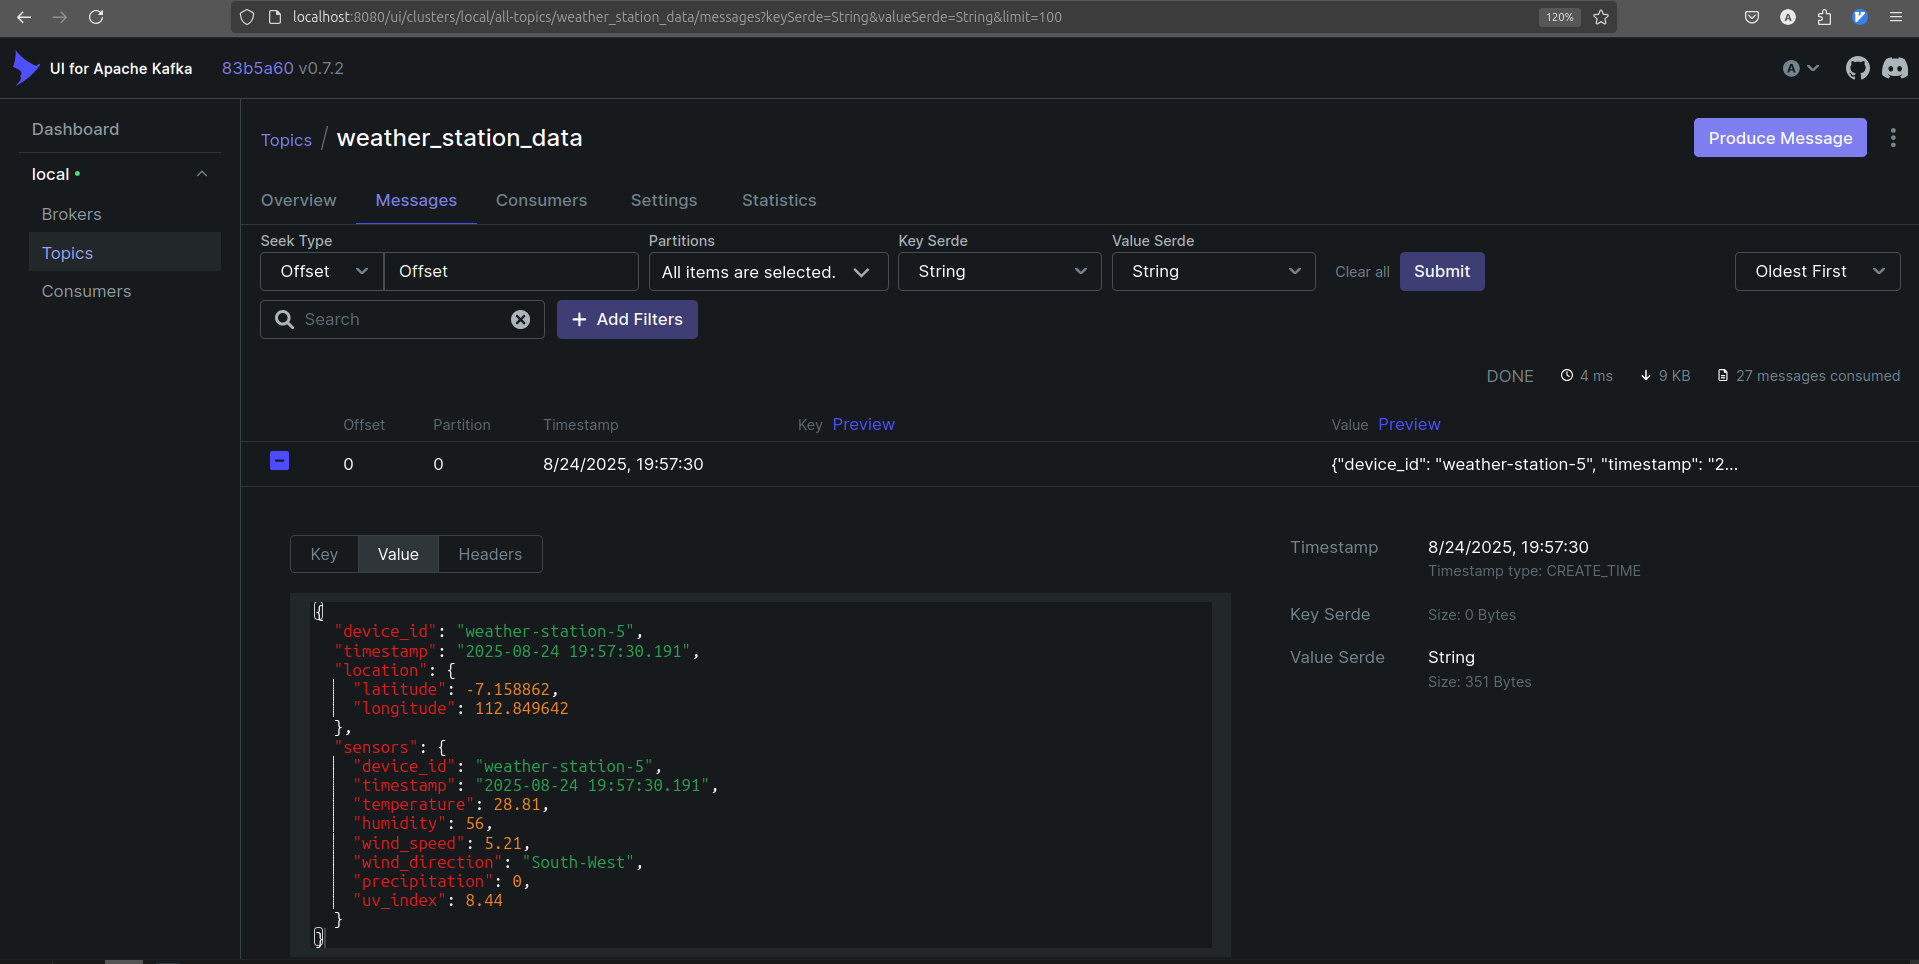
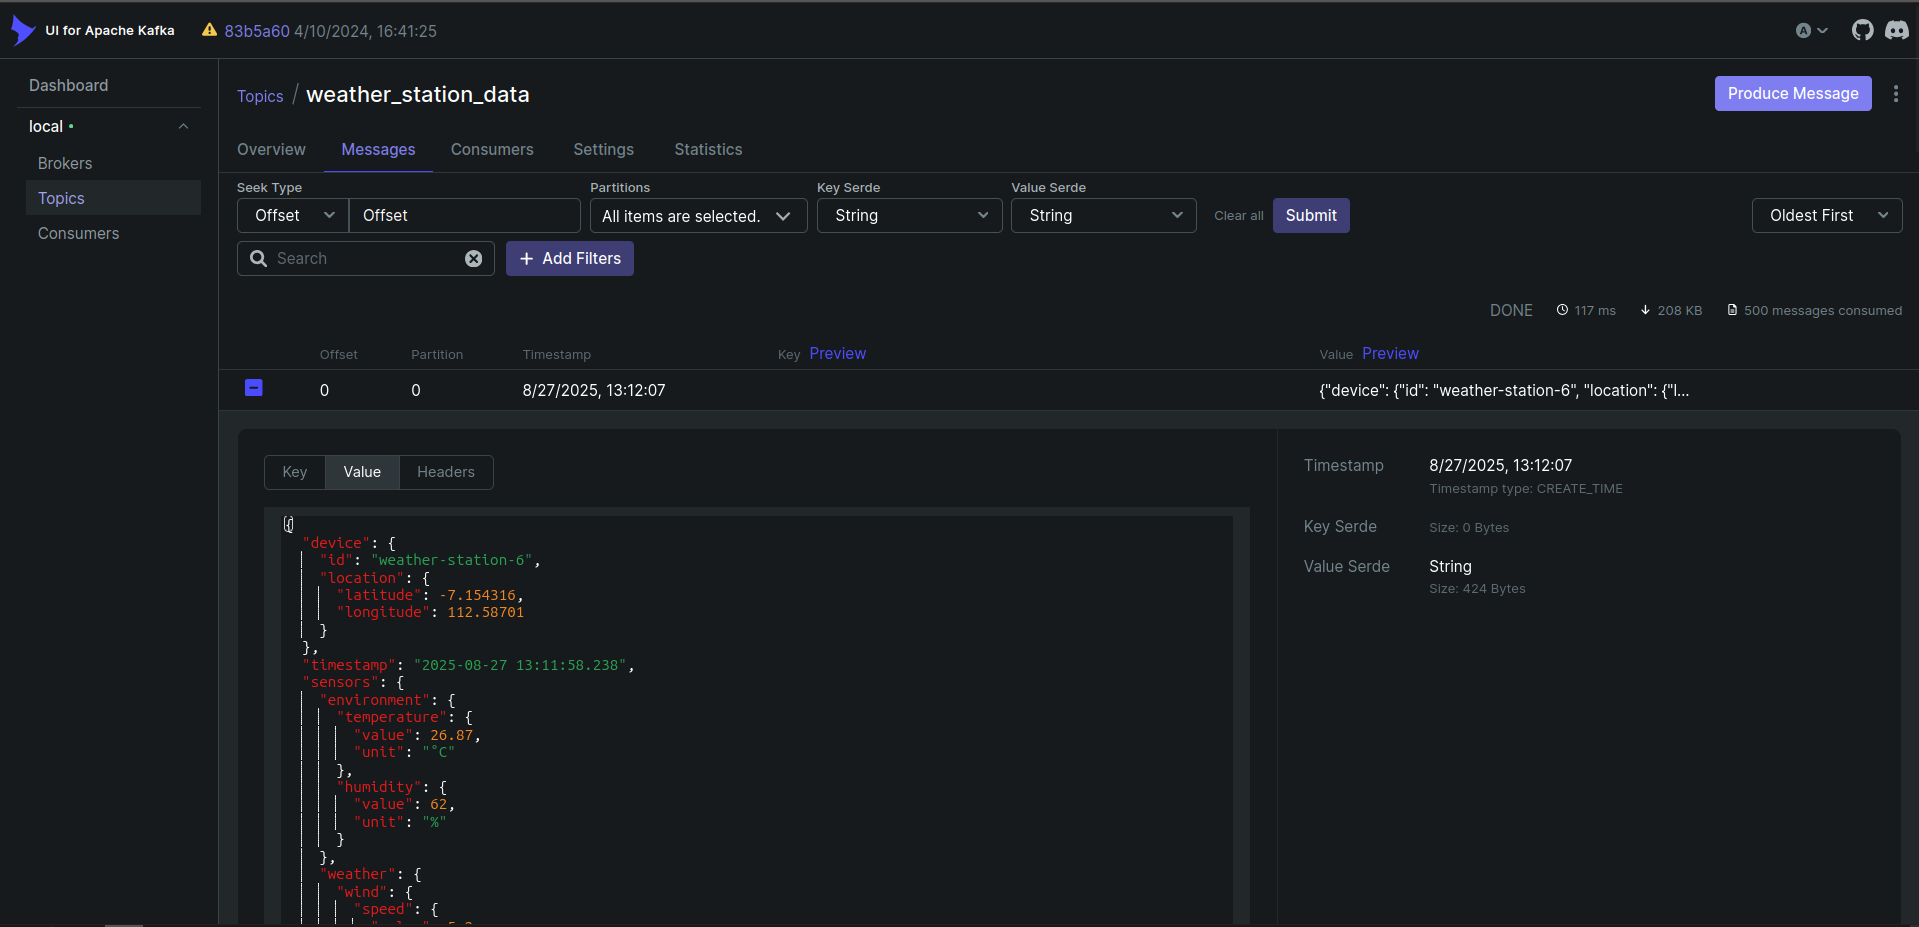
docs: adjust documentation

diff --git a/README.md b/README.md
@@ -4,34 +4,106 @@
 
 ```
 apache-kafka-101/
-├── src/
-│   ├── config.py              # Configuration variables
-│   ├── utils.py               # Utility functions
-│   ├── data_generator/        # Weather data generation
-│   └── data_streamer/         # Kafka producer/consumer
-├── init-scripts/              # Database initialization
-├── docker-compose.yaml        # Docker services
-├── requirements.txt           # Python dependencies
-└── main.py                    # Entry point
+├── consumer/
+│   ├── src
+│   │   ├── data_streamer/
+|   │   ├── data_transformer/
+│   │   ├── config.py
+│   │   └── utils.py
+│   ├── Dockerfile
+│   ├── main.py
+│   └── requirements.txt
+├── producer/
+│   ├── src
+│   │   ├── data_generator/
+|   │   ├── data_streamer/
+│   │   └── config.py
+│   ├── Dockerfile
+│   ├── main.py
+│   └── requirements.txt
+├── init-scripts/
+└── docker-compose.yaml
 ```
 
-## Setup
+## Objective
 
-### Installation
+This pipeline processes weather station sensor data from Surabaya. The transformation included two phases which are flattening and aggregating the data. The flattened data is pushed to another Kafka topic, while the aggregated data is inserted into the database in micro-batches (every 2 minutes).
+
+### Raw Data Sample
+
+```json
+{
+  "device": {
+    "id": "weather-station-6",
+    "location": {
+      "latitude": -7.154316,
+      "longitude": 112.58701
+    }
+  },
+  "timestamp": "2025-08-27 13:11:58.238",
+  "sensors": {
+    "environment": {
+      "temperature": {
+        "value": 26.87,
+        "unit": "°C"
+      },
+      "humidity": {
+        "value": 62,
+        "unit": "%"
+      }
+    },
+    "weather": {
+      "wind": {
+        "speed": {
+          "value": 5.2,
+          "unit": "km/h"
+        },
+        "direction": "West"
+      },
+      "precipitation": {
+        "value": 2.05,
+        "unit": "mm"
+      },
+      "uv_index": {
+        "value": 0.71
+      }
+    }
+  }
+}
+```
+
+### Flattened Data Sample
+
+```json
+{
+  "device_id": "weather-station-6",
+  "latitude": -7.154316,
+  "longitude": 112.58701,
+  "event_time": "2025-08-27T13:11:58.238+07:00",
+  "temperature_value": 26.87,
+  "humidity_value": 62,
+  "wind_speed_value": 5.2,
+  "wind_direction": "West",
+  "precipitation_value": 2.05,
+  "uv_index": 0.71
+}
+```
+
+### Aggregated Data Sample
+
+| device_id         | window_start        | window_end          | avg_temperature | min_temperature | max_temperature | avg_humidity | avg_wind_speed | max_uv_index |
+| ----------------- | ------------------- | ------------------- | --------------- | --------------- | --------------- | ------------ | -------------- | ------------ |
+| weather-station-6 | 2025-08-27 13:10:00 | 2025-08-27 13:12:00 | 26.87           | 26.87           | 26.87           | 62           | 5.2            | 0.71         |
+
+## How to Run
 
 1. Clone the repository.
 
-2. Install dependencies:
-
-```bash
-pip install -r requirements.txt
-```
-
-3. Create `.env` file:
+2. Create `.env` file:
 
 ```bash
 cp .env.example .env
-# Edit .env with your configuration
+# Edit .env (you only need change `KAFKA_TOPIC_SOURCE` and `KAFKA_TOPIC_TARGET`)
 ```
 
 4. Start doker compose:
@@ -40,74 +112,19 @@ cp .env.example .env
 docker compose up -d
 ```
 
-This command will run both Kafka server and Kafka UI. It also initialize database with table called `weather_sensor_readings`
+This command will start all services defined in `docker-compose.yaml`, including:
 
-## How to Run
+- **producer**: generates dummy data and pushes it to a Kafka topic.
+- **consumer**: consumes the dummy data from Kafka, transforms it using Spark, and pushes it to a new Kafka topic and the database.
+- **spark-master**: coordinates distributed data processing across Spark workers.
+- **spark-worker**: executes the tasks assigned by the Spark master.
+- **kafka**: message broker that stores and streams data between producer and consumer.
+- **kafka-ui**: kafka web interface to monitor and manage Kafka topics.
+- **postgres**: stores the aggregated data.
 
-You need to open two terminal in order to see both log of producer and consumer.
+The producer and consumer will automatically start their processes right after the Docker Compose command is run.
 
-### Start Producer (Generate & Send Data)
-
-```bash
-python main.py --role produce_raw_data
-```
-
-### Start Consumer (Transform, Push to New Topic, and Store Data to DB)
-
-```bash
-python main.py --role consume_raw_data
-```
-
-## Sample Output
-
-### Producer Output
-
-```
-STARTING KAFKA PRODUCER...
-'topic_name' is not provided, using KAFKA_TOPIC from environment variables.
-Connection to Kafka broker successful.
-==================================================
-[2025-08-24 19:57:30.191] weather-station-5 | Location: (-7.158862, 112.849642) | Temp: 28.81°C | Humidity: 56% | Wind: 5.21 km/h South-West | Precipitation: 0 mm | UV Index: 8.44
-Data sent to Kafka topic: weather_station_data
-
-
-[2025-08-24 19:57:32.094] weather-station-4 | Location: (-7.318575, 112.780479) | Temp: 31.81°C | Humidity: 67% | Wind: 9.57 km/h South | Precipitation: 0 mm | UV Index: 9.13
-Data sent to Kafka topic: weather_station_data
-
-
-[2025-08-24 19:57:33.706] weather-station-2 | Location: (-7.420383, 112.64485) | Temp: 29.65°C | Humidity: 51% | Wind: 5.59 km/h South-West | Precipitation: 9.2 mm | UV Index: 0.59
-Data sent to Kafka topic: weather_station_data
-
-...
-```
-
-### Consumer Output
-
-```
-STARTING KAFKA CONSUMER...
-'topic_name' is not provided, using KAFKA_TOPIC from environment variables.
-'consumer_group' is not provided, using KAFKA_CONSUMER_GROUP from environment variables.
-Connection to Kafka broker successful.
-==================================================
-STARTING KAFKA PRODUCER...
-Connection to Kafka broker successful.
-==================================================
-Data received from Kafka topic: weather_station_data
-Data sent to Kafka topic: weather_station_transformed
-Inserted data for device weather-station-5
-
-
-Data received from Kafka topic: weather_station_data
-Data sent to Kafka topic: weather_station_transformed
-Inserted data for device weather-station-4
-
-
-Data received from Kafka topic: weather_station_data
-Data sent to Kafka topic: weather_station_transformed
-Inserted data for device weather-station-2
-
-...
-```
+## Results
 
 ### Kafka Topic: `weather_station_data` (Store Raw Data)
 
@@ -115,29 +132,31 @@ Inserted data for device weather-station-2
 
 ### Kafka Topic: `weather_station_transformed` (Store Transformed Data)
 
-![weather_station_transformedr](./images/weather_station_transformed_data.png)
+![weather_station_transformed](./images/weather_station_transformed_data.png)
+
+### Spark Master Web UI
+
+![spark_master_web_ui](./images/spark_master_web_ui.png)
 
 ### Database Query Results
 
 ```sql
-SELECT * FROM weather_sensor_readings LIMIT 10;
+SELECT * FROM weather_sensor_aggregate ORDER BY window_start DESC, device_id LIMIT 12;
 ```
 
 Output:
 
-```
-| event_id | device_id        | timestamp               | latitude  | longitude   | temperature | humidity | wind_speed | wind_direction | precipitation_mm | uv_index | uv_level   |
-|----------|------------------|-------------------------|-----------|-------------|-------------|----------|------------|----------------|------------------|----------|------------|
-| 1        | weather-station-5 | 2025-08-24 19:57:30.191 | -7.158862 | 112.849642  | 28.81       | 56       | 5.21       | South-West     | 0                | 8.44     | Very High  |
-| 2        | weather-station-4 | 2025-08-24 19:57:32.094 | -7.318575 | 112.780479  | 31.81       | 67       | 9.57       | South          | 0                | 9.13     | Very High  |
-| 3        | weather-station-2 | 2025-08-24 19:57:33.706 | -7.420383 | 112.64485   | 29.65       | 51       | 5.59       | South-West     | 9.2              | 0.59     | Low        |
-| 4        | weather-station-5 | 2025-08-24 19:57:35.637 | -7.158862 | 112.849642  | 28.79       | 56       | 5.2        | South-West     | 0                | 8.44     | Very High  |
-| 5        | weather-station-1 | 2025-08-24 19:57:37.025 | -7.339019 | 112.841093  | 30.34       | 74       | 6.81       | North-West     | 5.99             | 0.57     | Low        |
-| 6        | weather-station-3 | 2025-08-24 19:57:38.332 | -7.156054 | 112.740006  | 27.52       | 77       | 7.59       | South          | 6.45             | 0.25     | Low        |
-| 7        | weather-station-6 | 2025-08-24 19:57:39.678 | -7.315009 | 112.746605  | 31.38       | 51       | 9.06       | North          | 0                | 9.06     | Very High  |
-| 8        | weather-station-5 | 2025-08-24 19:57:41.583 | -7.158862 | 112.849642  | 28.79       | 56       | 5.2        | South-West     | 0                | 8.43     | Very High  |
-| 9        | weather-station-1 | 2025-08-24 19:57:42.894 | -7.339019 | 112.841093  | 30.34       | 74       | 6.82       | North-West     | 5.99             | 0.57     | Low        |
-| 10       | weather-station-1 | 2025-08-24 19:57:43.981 | -7.339019 | 112.841093  | 30.35       | 74       | 6.83       | North-West     | 5.99             | 0.61     | Low        |
-
-```
-
+| device_id         | window_start        | window_end          | avg_temperature | min_temperature | max_temperature | avg_humidity | avg_wind_speed | max_uv_index |
+| ----------------- | ------------------- | ------------------- | --------------- | --------------- | --------------- | ------------ | -------------- | ------------ |
+| weather-station-1 | 2025-08-27 13:40:00 | 2025-08-27 13:42:00 | 28.08           | 28.07           | 28.09           | 53           | 7.48           | 0.64         |
+| weather-station-2 | 2025-08-27 13:40:00 | 2025-08-27 13:42:00 | 30.29           | 30.27           | 30.30           | 54           | 5.00           | 7.29         |
+| weather-station-3 | 2025-08-27 13:40:00 | 2025-08-27 13:42:00 | 31.51           | 31.48           | 31.54           | 49           | 8.51           | 5.11         |
+| weather-station-4 | 2025-08-27 13:40:00 | 2025-08-27 13:42:00 | 28.44           | 28.40           | 28.46           | 73           | 9.40           | 0.52         |
+| weather-station-5 | 2025-08-27 13:40:00 | 2025-08-27 13:42:00 | 26.32           | 26.30           | 26.36           | 67           | 8.58           | 0.52         |
+| weather-station-6 | 2025-08-27 13:40:00 | 2025-08-27 13:42:00 | 27.02           | 27.00           | 27.04           | 61           | 5.16           | 0.76         |
+| weather-station-1 | 2025-08-27 13:38:00 | 2025-08-27 13:40:00 | 28.06           | 28.05           | 28.08           | 53           | 7.51           | 0.63         |
+| weather-station-2 | 2025-08-27 13:38:00 | 2025-08-27 13:40:00 | 30.28           | 30.26           | 30.30           | 56           | 5.02           | 7.30         |
+| weather-station-3 | 2025-08-27 13:38:00 | 2025-08-27 13:40:00 | 31.51           | 31.47           | 31.55           | 48           | 8.52           | 5.12         |
+| weather-station-4 | 2025-08-27 13:38:00 | 2025-08-27 13:40:00 | 28.45           | 28.43           | 28.48           | 73           | 9.40           | 0.54         |
+| weather-station-5 | 2025-08-27 13:38:00 | 2025-08-27 13:40:00 | 26.32           | 26.30           | 26.35           | 67           | 8.54           | 0.54         |
+| weather-station-6 | 2025-08-27 13:38:00 | 2025-08-27 13:40:00 | 26.98           | 26.97           | 26.99           | 62           | 5.16           | 0.79         |
